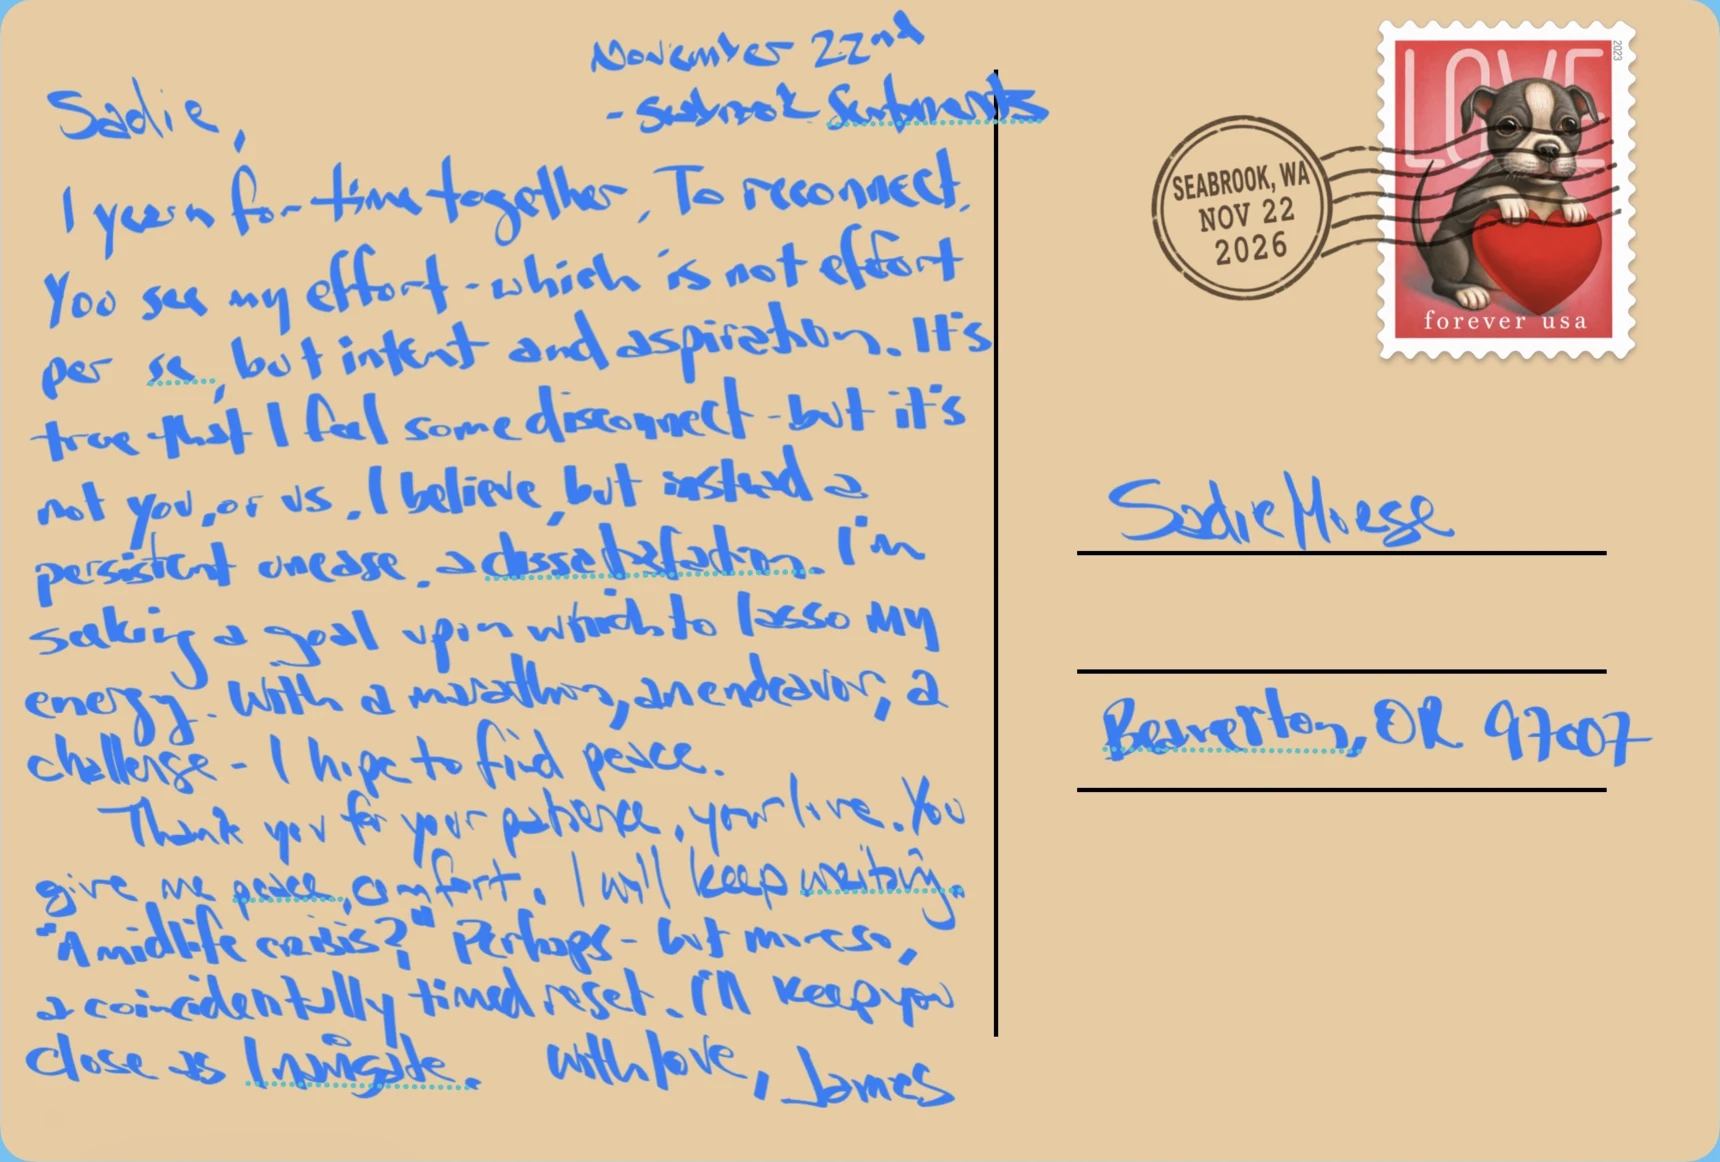
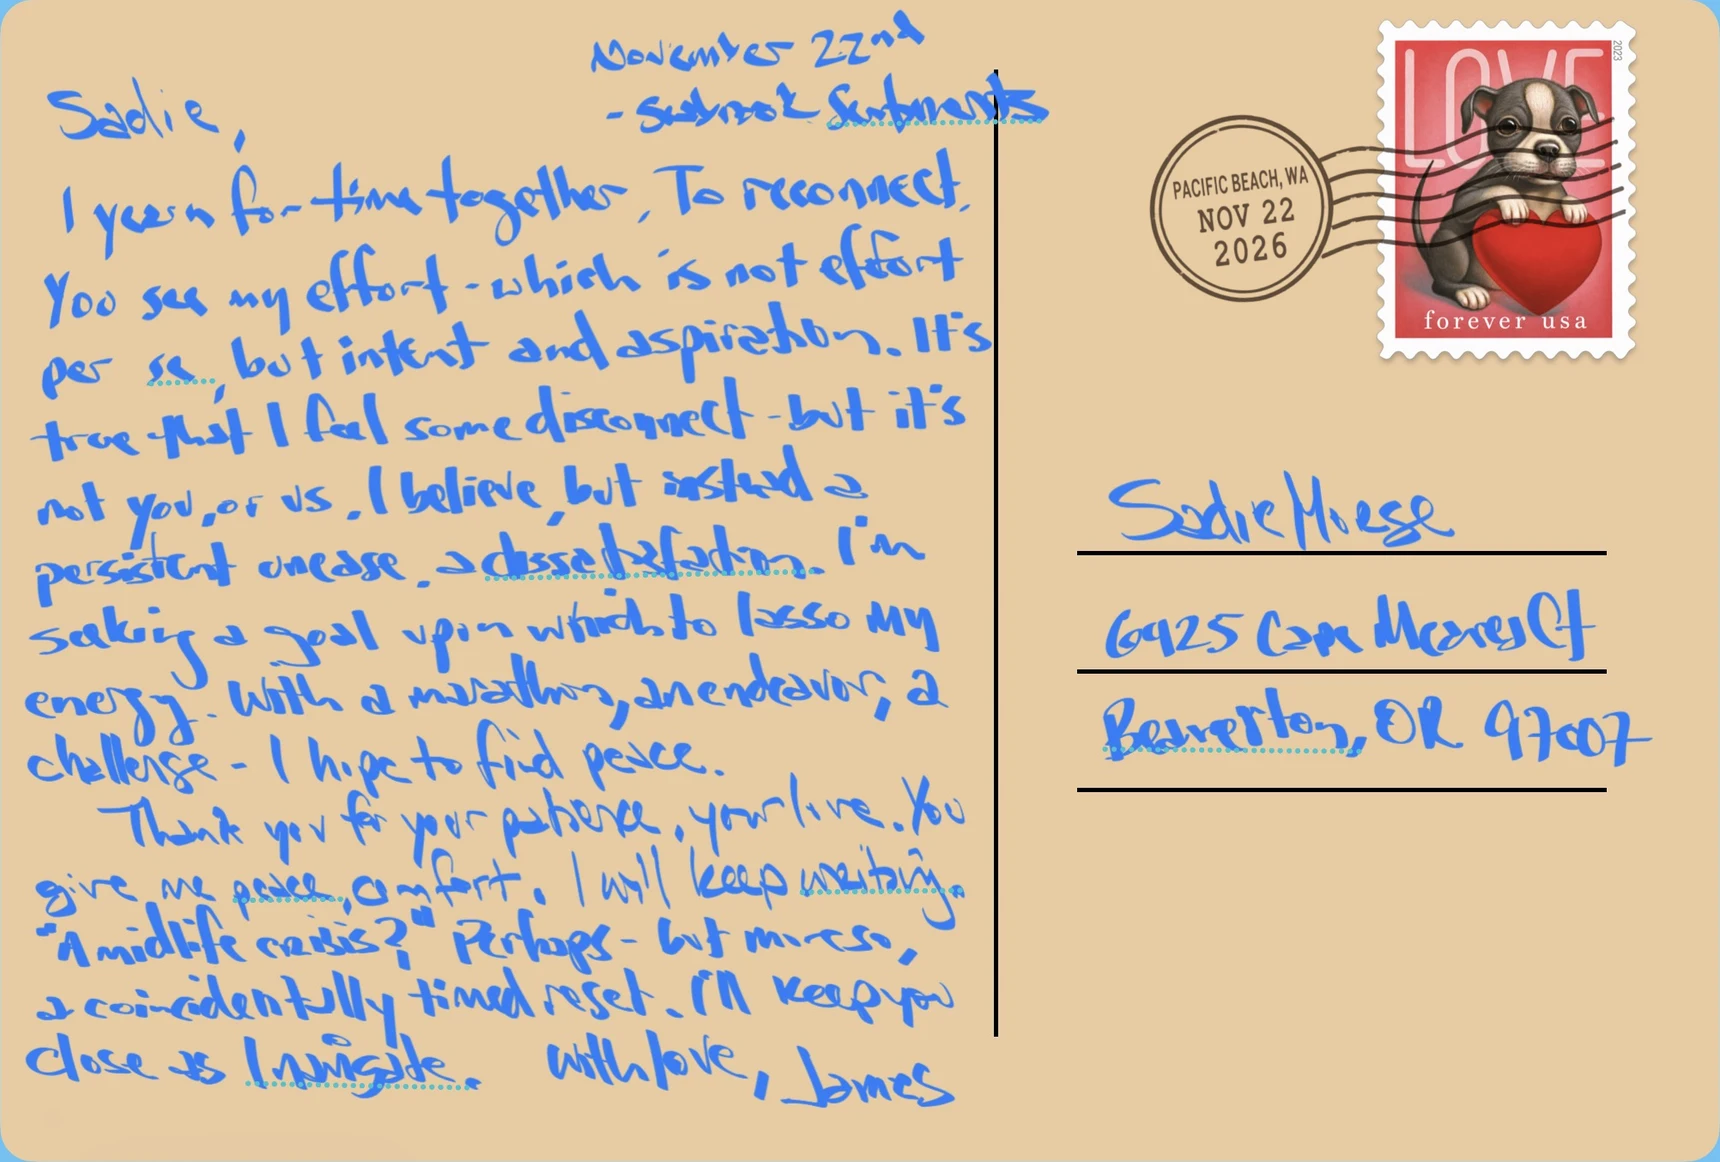
Use Pacific Beach postmark and preserve postcard address

Changed region(s): [[0.6471, 0.0929, 0.8628, 0.2788], [0.6471, 0.4957, 0.9244, 0.5886], [0.9244, 0.0929, 0.9552, 0.1859]]

diff --git a/postcards.html b/postcards.html
@@ -95,7 +95,7 @@
     <button class="postcard" type="button" aria-label="Postcard front. Bring closer" aria-describedby="hint">
       <span class="postcard-body">
         <img class="face" src="/assets/postcards/washington-front.webp" alt="Vintage Greetings from Washington postcard" draggable="false">
-        <img class="face back" src="/assets/postcards/washington-back.webp" alt="Handwritten postcard with a puppy stamp and Seabrook postmark" draggable="false" aria-hidden="true">
+        <img class="face back" src="/assets/postcards/washington-back.webp" alt="Handwritten postcard with a puppy stamp and Pacific Beach, WA postmark" draggable="false" aria-hidden="true">
       </span>
     </button>
     <p class="hint" id="hint">Bring closer</p>
